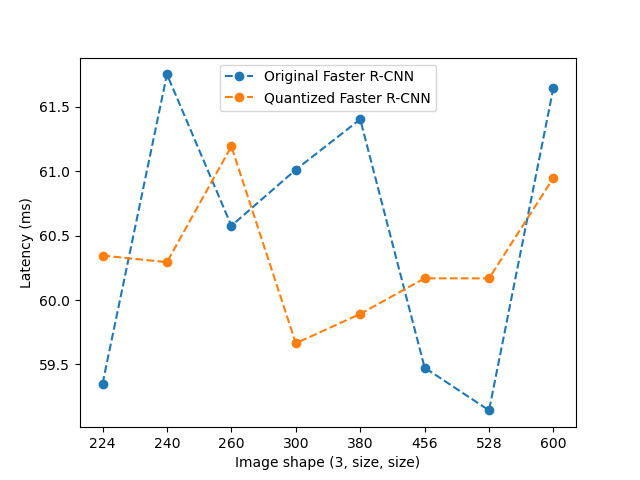
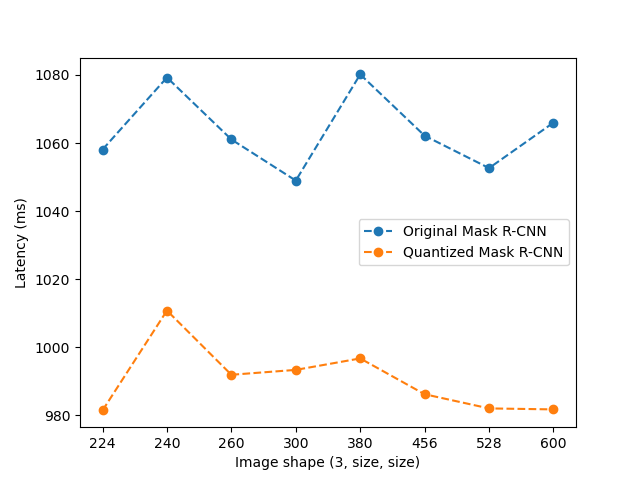
detection.py

diff --git a/labs/lab3-quantization/visualization_detection.py b/labs/lab3-quantization/visualization_detection.py
@@ -21,24 +21,60 @@ def plot_line_chart(all_y, all_model_names):
 
 
 if __name__ == '__main__':
-    all_y = np.asarray([[59.3508323,
-                         61.75211514,
-                         60.5766515,
-                         61.01209092,
-                         61.40358621,
-                         59.47480755,
-                         59.14292878,
-                         61.64967894
-                         ],
-                        [60.34500893,
-                         60.29418543,
-                         61.19365031,
-                         59.66429393,
-                         59.89195554,
-                         60.16866669,
-                         60.16818478,
-                         60.94942234
-                         ]])
-    all_model_names = ['Original Faster R-CNN', 'Quantized Faster R-CNN']
+    # all_y = np.asarray([[59.3508323,
+    #                      61.75211514,
+    #                      60.5766515,
+    #                      61.01209092,
+    #                      61.40358621,
+    #                      59.47480755,
+    #                      59.14292878,
+    #                      61.64967894
+    #                      ],
+    #                     [60.34500893,
+    #                      60.29418543,
+    #                      61.19365031,
+    #                      59.66429393,
+    #                      59.89195554,
+    #                      60.16866669,
+    #                      60.16818478,
+    #                      60.94942234
+    #                      ]])
+    # all_model_names = ['Original Faster R-CNN', 'Quantized Faster R-CNN']
+    all_y = np.asarray([[
+        1058.090037,
 
+        1079.245253,
+
+        1061.052368,
+
+        1048.975526,
+
+        1080.156905,
+
+        1062.147654,
+
+        1052.641418,
+
+        1065.988478,
+
+    ],
+        [
+            981.4818364,
+
+            1010.797902,
+
+            991.9456314,
+
+            993.3798709,
+
+            996.7458504,
+
+            986.2291856,
+
+            982.0666453,
+
+            981.7749113,
+
+        ]])
+    all_model_names = ['Original Mask R-CNN', 'Quantized Mask R-CNN']
     plot_line_chart(all_y, all_model_names)

diff --git a/labs/lab3-quantization/detection.py b/labs/lab3-quantization/detection.py
@@ -9,13 +9,13 @@ def main():
         print(device_str)
         device = torch.device(device_str)
         for model in [
-            torchvision.models.detection.fasterrcnn_mobilenet_v3_large_320_fpn(
-                    pretrained=True).to(device),
-            torchvision.models.detection.ssdlite320_mobilenet_v3_large(
+            # torchvision.models.detection.fasterrcnn_mobilenet_v3_large_320_fpn(
+            #         pretrained=True).to(device),
+            torchvision.models.detection.maskrcnn_resnet50_fpn(
                     pretrained=True).to(device)
         ]:
             print(model.__class__)
-            # torch.save(model, './' + str(model._get_name()) + '.pt')
+            torch.save(model, './' + str(model._get_name()) + '.pt')
             model.eval()
             x = [torch.rand(3, 224, 224, device=device)]
             for _ in range(10):
@@ -35,8 +35,8 @@ def main():
                 print('Standard Deviation:', time.std())
 
             model = torch.quantization.quantize_dynamic(model, {torch.nn.Linear})
-            # torch.save(model, './' + str(model._get_name()) + '_quantized.pt')
-            # print(model)
+            torch.save(model, './' + str(model._get_name()) + '_quantized.pt')
+            print(model)
 
             model.eval()
             x = [torch.rand(3, 224, 224, device=device)]
